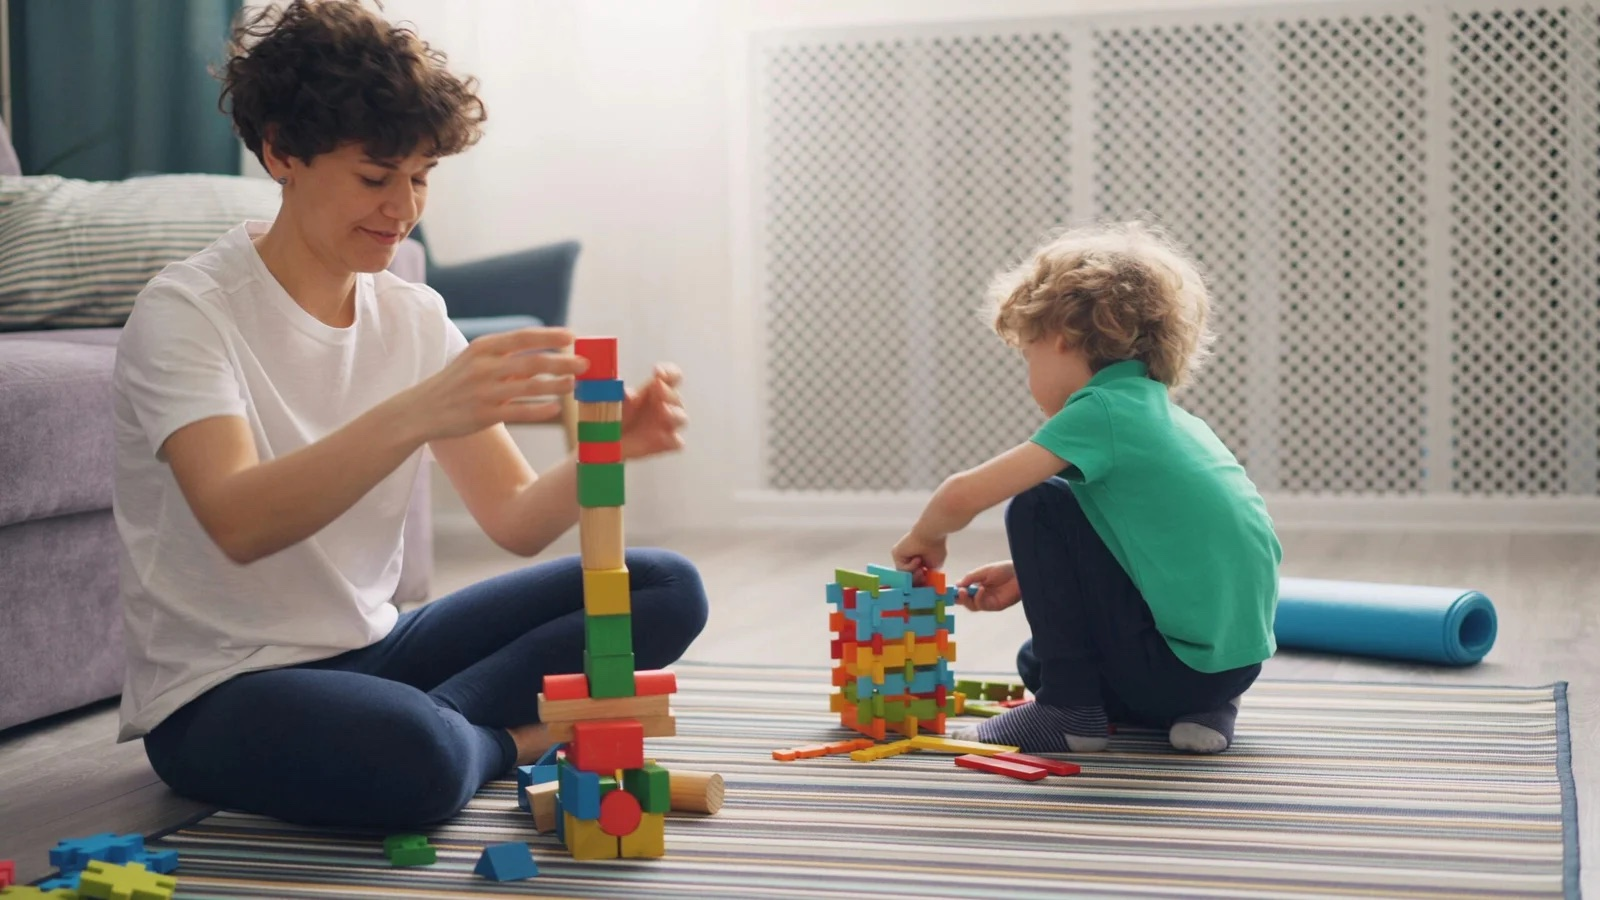
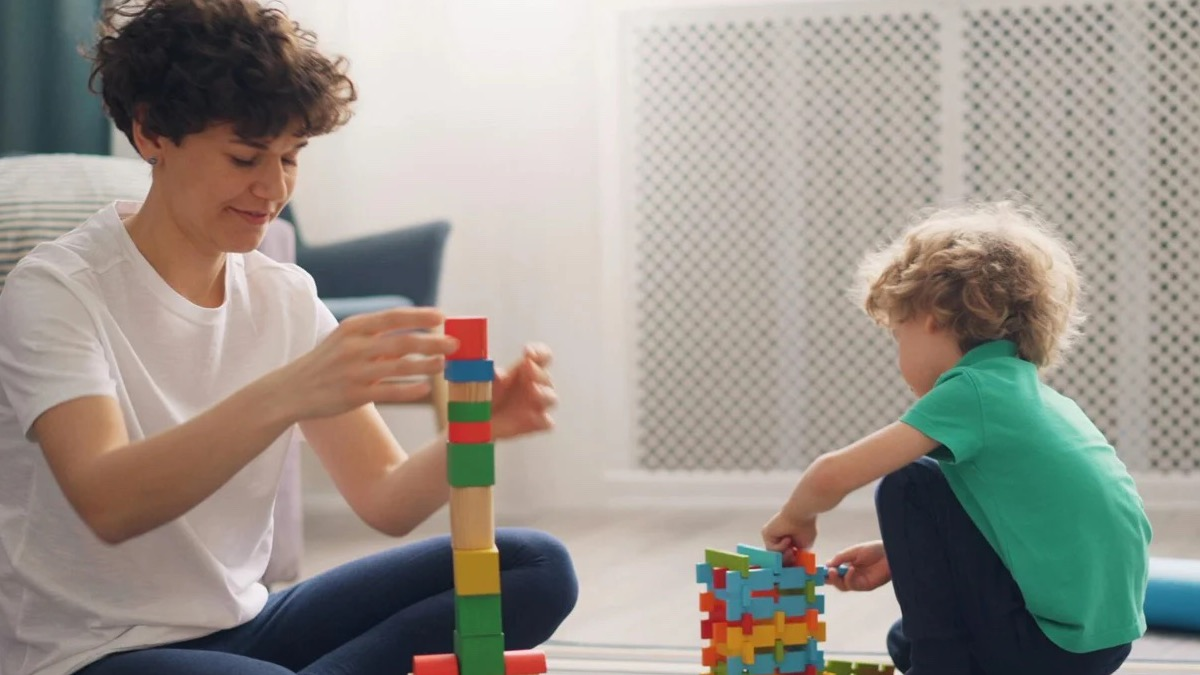
Crop hero photo: remove yoga mat and bottom-left blue puzzle piece
Tighter crop (1200×675, still 16:9) centers the composition between
mom and toddler with roughly equal space behind each. The rolled blue
yoga mat behind the toddler — staged-looking, and color-matched to a
stray puzzle wedge in the original's bottom-left corner — is gone.
Reads more like a therapist's playroom now, less like product shot.

diff --git a/index.html b/index.html
@@ -66,7 +66,7 @@
         <img class="hero__img"
              src="assets/images/photos/hero-mom-toddler-blocks.jpg"
              alt="A parent and curly-haired toddler sit on a striped rug, building tall towers of colorful wooden blocks together in a sunlit room."
-             width="1600" height="900" />
+             width="1200" height="675" />
         <div class="hero__content">
           <div>
             <h1 class="hero__title">Play that meets you where you are</h1>
